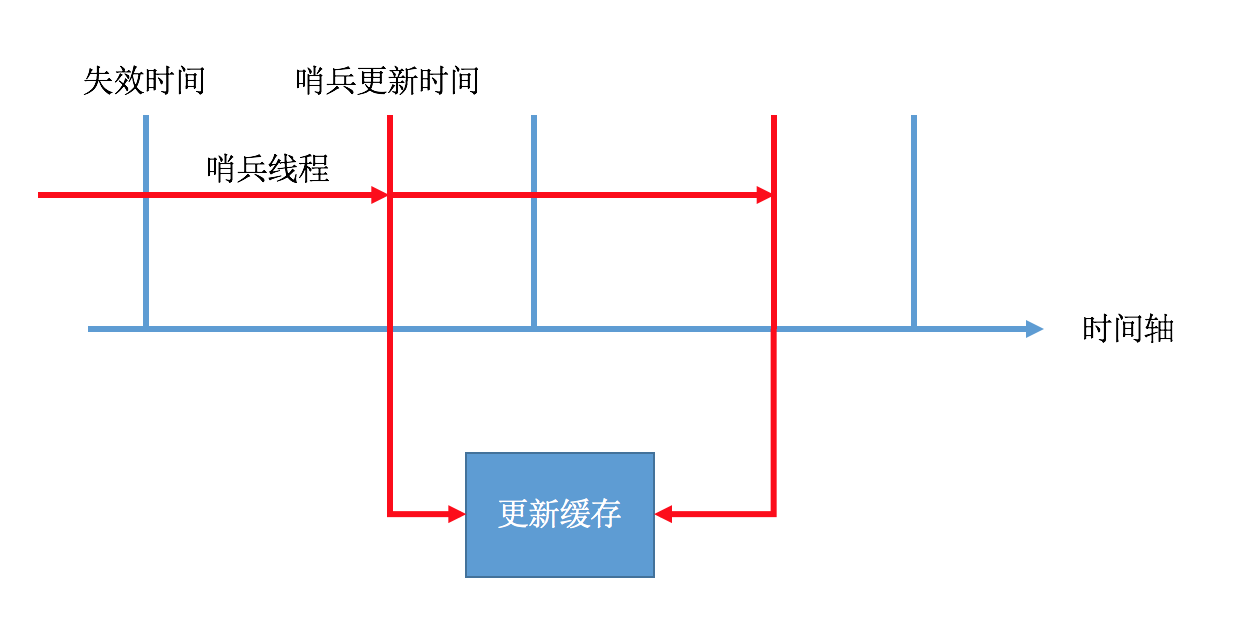
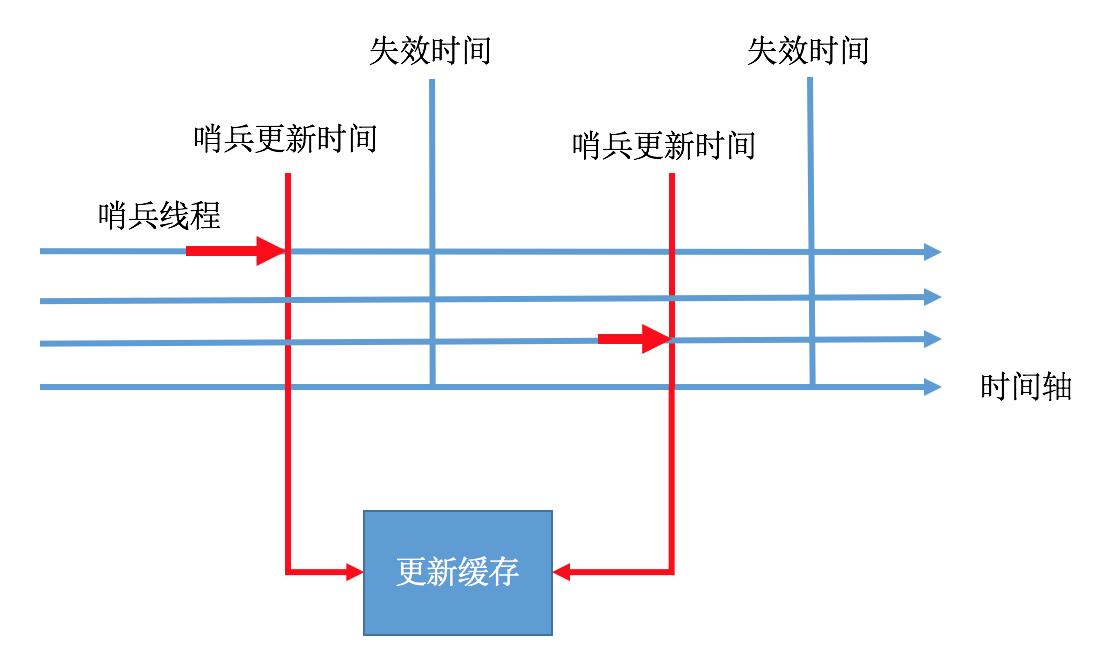
一种基于“哨兵”的分布式缓存设计

diff --git a/_posts/architecture/2015-06-14-distributed-cache.md b/_posts/architecture/2015-06-14-distributed-cache.md
@@ -1,105 +1,116 @@
 ---
 layout: post
-title: "一种基于哨兵的分布式cache"
-description: ""
+title: ""
+description: "一种基于“哨兵”的分布式缓存设计"
 category: architecture
-subhead: ''
+subhead: '一种基于哨兵的分布式cache'
 tags: [cache, 分布式, 架构]
 
 ---
 
+14年双11大促缓存方案，今天有点闲暇时间，回顾一下。
+
 ## 场景介绍：
 
-大促活动下，对于某些产品进行整点秒杀活动。预计流量是平时峰值`5倍`。
-商品计算逻辑比较复杂：某个最终展示的商品属性和价格，可能需要上亿次动态条件计算获得，动态条件每时每刻都在变化，并且商品的库存属性属于行业共有库存，每时每刻都在变化。
-用户最终看到的商品，需要后端多台机器并发计算，然后在前端机机器上汇总合并排序展示。
- 
+大促活动下，对于某些产品进行整点秒杀活动。预计流量是平时峰值`5+倍`。
 
+商品计算逻辑比较复杂：某个最终展示的商品属性和价格，可能需要上亿次动态条件计算获得，动态条件每时每刻都在变化，并且商品的库存属性属于行业共有库存，每时每刻都在变化。
+
+**计算模型：**前端机并发去后端获取实时计算数据，然后合并结果，`根据用户信息`给商品打属性，排序。
+
+ 
 ## 头脑风暴
-针对这种场景，有很多方案可以尝试，不过总结起来，大概俩个放心：`扩容`和`缓存`。
+
+针对这种场景，有很多方案可以尝试，不过总结起来，大概俩个方向：`扩容`和`缓存`。
 	
 ### 扩容
-扩容是最容易想到的方式，而且每年大促，根据压测和运营活动预期，都可能有相应扩容。扩容从某种程度上说，也是最简单的方式，如果应用规划足够好，没有状态，那么基本不用开发介入就能完成。但是如果应用涉及状态信息，那么扩容就没有说的那么轻巧，扩容涉及到增加集群状态；活动结束后，机器下线涉及集群减少状态，这一增一减，增加了运维的成本和系统稳定性。
+
+扩容是最容易想到的方式，而且每年大促，根据压测和运营活动预期，都可能有相应扩容。扩容从某种程度上说，也是最简单的方式，如果应用规划足够好，没有状态，那么基本不用开发介入就能完成。
+
+但是如果应用涉及状态信息，那么扩容就没有说的那么轻巧，扩容涉及到增加集群状态；活动结束后，机器下线涉及集群减少状态，这一增一减，增加了运维的成本和系统稳定性。
+
 扩容还有一个不好的地方就是活动结束后，系统水位下降，闲下来4倍的机器，比较浪费。
 	
 ### 缓存
-相对扩容，缓存是一种从应用角度出发，优化系统的方案。缓存的方案可细分不同粒度，适用不同场景。
+
+相对扩容，缓存是一种从应用角度出发，优化系统的方案。缓存的方案可细分不同粒度，分别适用不同场景。
 	
 #### 静态化
-静态化能最大限度降低最大限度降低后端压力，一般静态内容可以定时或者通过数据更像触发生成，然后推送到CDN节点。静态化适用于读多写少的数据，或者能够容忍数据变化延迟的场景。对已本文介绍的场景，并不适合，原因在于商品不满足前面说的两点，并且每个登陆用户看到的产品价格和属性是不同的。
+
+静态化能最大限度降低最大限度降低后端压力，一般静态内容可以定时或者通过数据更像触发生成，然后推送到CDN节点。静态化适用于1)`读多写少的数据`，或者2)`能够容忍数据变化延迟`的场景。对于本文介绍的场景，并不适合，原因在于商品不满足前面说的两点，并且每个登陆用户看到的产品价格和属性是不同的。
 
 #### 缓存中间结果
-静态化这种"一刀切"模式，不能满足针对每个用户的个性化展示需求，如果把每个用户看到的数据都静态化，那缓存的命中率接近`0`，基本每个用户看一次就不会再来了。而且缓存数据量巨大。
-由此想到把缓存粒度缩小，把缓存从展示层后推到前端机上。因为前端机负责汇总后端结算结果，并根据用户信息给商品打属性，排序。
+
+静态化这种"一刀切"模式，不能满足针对每个用户的个性化展示需求，如果把每个用户看到的数据都静态化，那缓存的命中率有会很低，基本每个用户请求一两次就不会再来了。而且缓存数据量巨大。
+
+由此想到把缓存粒度缩小，把缓存从展示层后推到`前端机`上。因为前端机负责汇总后端结算结果，并根据用户信息给商品打属性，排序。
 
 ### 缓存方案尝试
 
 经过头脑风暴，最终确定采用`缓存中间结果`方式。接下来讨论一下方案细节。
 
-#### 简单粗暴
+#### 简单粗暴方式
 
-`如果缓存有，取缓存数据，如果没有数据，请求后端并把结果更新到缓存。`这是一种最简单的缓存模式，但不幸的是不适合秒杀场景，因为秒杀开始的时候，缓存很能没有数据，请求被打穿到后端。
+**`如果缓存有数据，取缓存数据，如果没有，请求后端并把结果更新到缓存。`**这是一种最简单的缓存模式，但不幸的是不适合秒杀场景，因为秒杀开始的时候，缓存很能没有数据，请求会`穿透`到后端。
 
-#### 实时缓存，异步更新
+#### 实时缓存，异步更新方式
 
-`实时请求数据来自缓存，缓存数据定时异步更新。`粗看起来，这个方案不存在`缓存穿透`的情况，因为数据不会实时从后端计算获取，而是从缓存获取，如果缓存没有数据或者数据过期，认为没有数据。缓存更新可以把用户请求汇总后去重，定时更新。
+`实时请求数据来自缓存，缓存数据定时异步更新。`粗看起来，这个方案不存在`缓存穿透`的情况，因为数据不会实时从后端计算获取，而是从缓存获取，如果缓存数据存在，直接获取即可。缓存更新可以把用户请求汇总后去重，定时更新。
 
-上面讨论的两种方式都一个共性问题：`第一批用户`问题：第一次请求，缓存没有数据怎么办？
+上面讨论的两种方式都一个共性问题：`第一批请求`问题：**如果第一批请求缓存没有数据怎么办？**
 
-简单粗暴的方式是让这样的用户刺穿缓存，后端去处理并更新缓存。而实时缓存的牺牲了这样的用户，因为他们根本看不到数据。这两种方式在本文的应用场景都是不合适的。
+`简单粗暴`的方式会让这样的请求`穿透缓存`，后端去处理并更新缓存。这样会给后端计算带来压力，秒杀开始那一刹那，很可能支撑不住。
+
+而`实时缓存`的牺牲了这样的请求，因为这些请求根本看不到数据，所以请求失败。这两种方式在本文的应用场景都不合适。
 
 #### 为何不提前初始化缓存?
 
-的确，上面两个方案如果能在第一个用户到达前初始化好缓存，那基本上可以满足本文的应用场景的。而且看起来也很容易做到，提前模拟一次请求或者提前往缓存放一份数据不就可以了吗？
+的确，上面两个方案如果能在`第一批请求`到达前初始化好缓存，那基本上可以满足本文的应用场景的。而且看起来也很容易做到，提前`模拟一次请求`或者`提前往缓存放一份数据`不就可以了吗？
 
-不幸的是，本文场景因为涉及数据范围巨大，不能在较短时间遍历缓存key，初始化好缓存，即使采取并发方式。而且，初始化缓存请求过多，也将消耗大量后端计算资源。
+不幸的是，本文场景因为涉及数据范围巨大，不能在较短时间内遍历缓存key，初始化好缓存，即使采取并发方式。而且，初始化缓存请求过多，也将给后端机器造成压力。
 
 
 #### 缓存失效又该怎么办？
 
-两种方案的缓存不会永久有效，如果缓存失败了怎么办？
+根据需求，两种方案的缓存`不会永久有效`，如果缓存失败了怎么办？
 
-对于简单粗暴方式，如果缓存失效，又会遇到`第一个(批)用户`问题，第一个(批)发现缓存失效用户，怎么办？看来还有可能导致缓存穿透。
+对于`简单粗暴`方式，如果缓存失效，又会遇到`第一批请求`问题，一批请求发现缓存失效，怎么办？看来即使解决了缓存初始化问题，还有可能导致缓存穿透。
 
-试试缓存模式也有类似问题，如果异步更新前数据已经失效了，那么将牺牲一批数据失效后到更新前这批用户。因为没有人去更新数据。
+实时缓存模式也有类似问题，如果异步更新前数据已经失效了，那么将牺牲一批数据失效后到更新前这批用户。因为没有人去更新数据。
 
 #### 缓存更新问题
 
 不管哪种方式，分布式缓存更新都存在并发问题，尤其在整点秒杀场景更为突出。对于简单粗暴方式，可以采用分布式锁解决：如果缓存穿透的一批请求只有一个会真正打到后端是不是就可以解决了？
 
-实时缓存也有同样的问题，只不过异步请求可以把一段时间内的重复请求合并成一个，从侧面避免了并发问题。
+`实时缓存`也有同样的问题，只不过异步请求可以把一段时间内的重复请求合并成一个，从侧面避免了并发问题。
 
 ### 更好的缓存方式
 
-把上面的讨论结合，可以得到一种更优雅的缓存方案，既不牺牲第一个(批)用户，也不存在缓存刺穿问题，同时避免并发更新问题。
+把上面的讨论结合，可以得到一种更优雅的缓存方案，既不牺牲第一批请求，也不存在缓存穿透问题，同时避免并发更新问题。
 
 #### 哨兵
 
 想象有这样一个哨兵线程，只有它能去后端请求实时数据，并更新缓存。
 
-第一个(批)用户场景：
+第一批请求场景：
 
+![image](http://blog.lichengwu.cn/images/architecture/distributed_cache_1.png)
 
 第一批请求中，选取最早的那个请求为哨兵，这个线程不会去读缓存，直接去后端获取计算结果并更新缓存。其他普通线程则自旋+sleep等待，直到哨兵更新缓存后，能拿到数据为止。
 
 
 缓存失效场景：
 
+![image](http://blog.lichengwu.cn/images/architecture/distributed_cache_2.png)
 
-哨兵的作用是让缓存永不失效。哨兵线程提前`苏醒`，去后端获取计算数据并更新缓存。这样，普通线程根本不会感知到缓存已经失效，他们能一直拿到最新的缓存。
+哨兵的作用是让缓存永不失效。哨兵线程提前`苏醒`，去后端获取计算数据并更新缓存。这样，其他普通线程根本不会感知到缓存已经失效，他们能一直拿到最新的缓存。
+
+例如，某个key的缓存失效时间的12:00:00，那么哨兵可能在11:59:55的时候苏醒，请求后端并于11:59:57的时候完成缓存数据更新。
+
 
 #### 实现细节
 
-哨兵：可以用原子计数器(redis)实现，计数器key的缓存时间跟数据key的缓存时间一致，但是计数器失效时间比数据的要早(至少提前一个后端请求RT时间，这样能保证哨兵更新缓存时，本来的缓存还没有失效，这样其他线程就不会感知到数据失效)。这样，每个线程去更新计数器，更新后，得到计数器为1的线程，被设置成哨兵线程。
+**哨兵：**其实哨兵也是一个普通请求，可以用原子计数器(redis或tair)实现，计数器key的缓存时间跟数据key的缓存时间一致，但是计数器失效时间比数据的要早(**至少提前一个后端请求RT时间**，这样能保证哨兵更新缓存后，不被其他线程感知到)。当请求线程发现缓存没有数据的时候，每个线程去更新计数器，更新后，得到计数器为1的线程，被设置成哨兵线程，其他线程则等待哨兵。
 
 普通请求没有获取到数据的时候，自旋+sleep应该有个超时时间，防止意外情况。如果超时了，根据业务场景选择请求后端数据还是处理失败。
-
-
-
-
-			
-	
-		 
-
-
 
